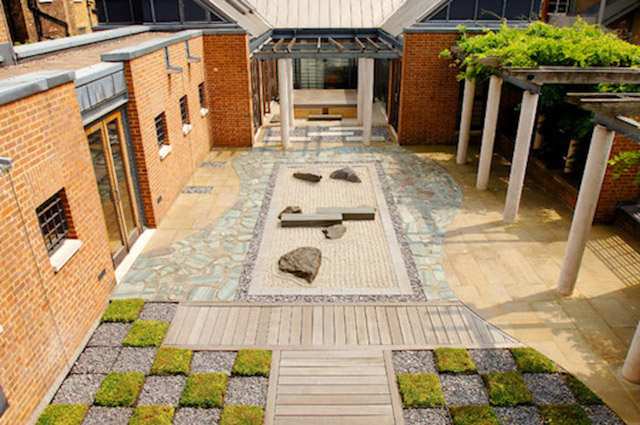
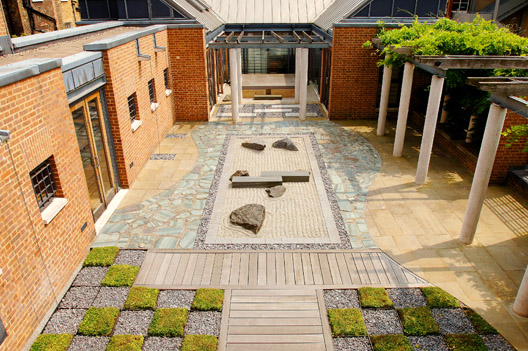
edited css

diff --git a/peacefinder-master/contact.html b/peacefinder-master/contact.html
@@ -3,7 +3,6 @@
 	<head>
 		<title>PeaceFinder</title>
 		<link rel="stylesheet" href="main.css">
-		<title>PeaceFinder - homepage</title>
 		<link rel="stylesheet" href="https://maxcdn.bootstrapcdn.com/bootstrap/3.3.7/css/bootstrap.min.css">
 	</head>
 	<body>
@@ -12,7 +11,7 @@
  <style>
     body {
       text-align: center;
-   
+
       color: black;
       font-family: helvetica;
     }
@@ -50,8 +49,8 @@
 
 <head>
 <link rel="stylesheet" type="text/css" href="contactstyle.css"></head>
-<h1>Contact us!<h1> 
-</h1> 
+<h1>Contact us!<h1>
+</h1>
 </head>
 
 <form>
@@ -61,21 +60,21 @@
     <input type="name" placeholder="First name">
   </div>
   <div class="form-group">
-    <label for="lname">Surname:</label> 
+    <label for="lname">Surname:</label>
      <input type="name" placeholder="Surname">
-  </div> 
+  </div>
   <div class="form-group">
     <label for="email">Email address:</label>
     <input type="email" placeholder="Your email">
   </div>
   <div class="form-group">
   	<label for="textarea">Comments:</label>
-  	
-  <textarea> </textarea>>
-   
+
+  <textarea> </textarea>
+
 </form>
 
 <div style="text-align:center;">
     <button>Submit</button>
-   
+
 </div>

diff --git a/peacefinder-master/Basic First Lines.html b/peacefinder-master/Basic First Lines.html
@@ -48,28 +48,28 @@
     <div class="item active">
       <img src="SOAS-japanese-roof-garden.jpg" alt="SOAS's roof garden">
 			<div class="carousel-caption">
-				<h3> SOAS's Japanese roof garden </h3>
+				<h5> SOAS's Japanese roof garden </h5>
 			</div>
     </div>
 
     <div class="item">
-      <img src="st-pauls-cathedral1.jpg" alt="St Paul's Cathedral">
+      <img src="st-pauls1.jpg" alt="St Paul's Cathedral">
 			<div class="carousel-caption">
-				<h3> St Paul's Cathedral </h3>
+				<h5> St Paul's Cathedral </h5>
 			</div>
     </div>
 
     <div class="item">
       <img src="wellcome-reading-room.jpg" alt="Wellcome Collection's Reading Room">
 			<div class="carousel-caption">
-				<h3> Wellcome Collection Reading Room </h3>
+				<h5> Wellcome Collection Reading Room </h5>
 			</div>
     </div>
 
     <div class="item">
       <img src="st-georges-gardens.jpg" alt="St George's Gardens">
 			<div class="carousel-caption">
-				<h3> St George's Gardens, Bloomsbury </h3>
+				<h5> St George's Gardens, Bloomsbury </h5>
 			</div>
     </div>
   </div>

diff --git a/peacefinder-master/main.css b/peacefinder-master/main.css
@@ -2,7 +2,7 @@ body
 {
 background-color:#cce6ff;
 font-family:"helvetica";
-font-size:22px;
+font-size:18px;
 }
 
 .Contact-us {
@@ -20,8 +20,13 @@ font-size:22px;
 
 .carousel-inner img {
   width: 50%;
-  height: 30em;
+	height: 20em;
   object-fit: cover;
   overflow: hidden;
 	margin: auto;
+}
+
+.carousel-inner > .item > img {
+	width: 640px;
+	height: 360px;
 }
